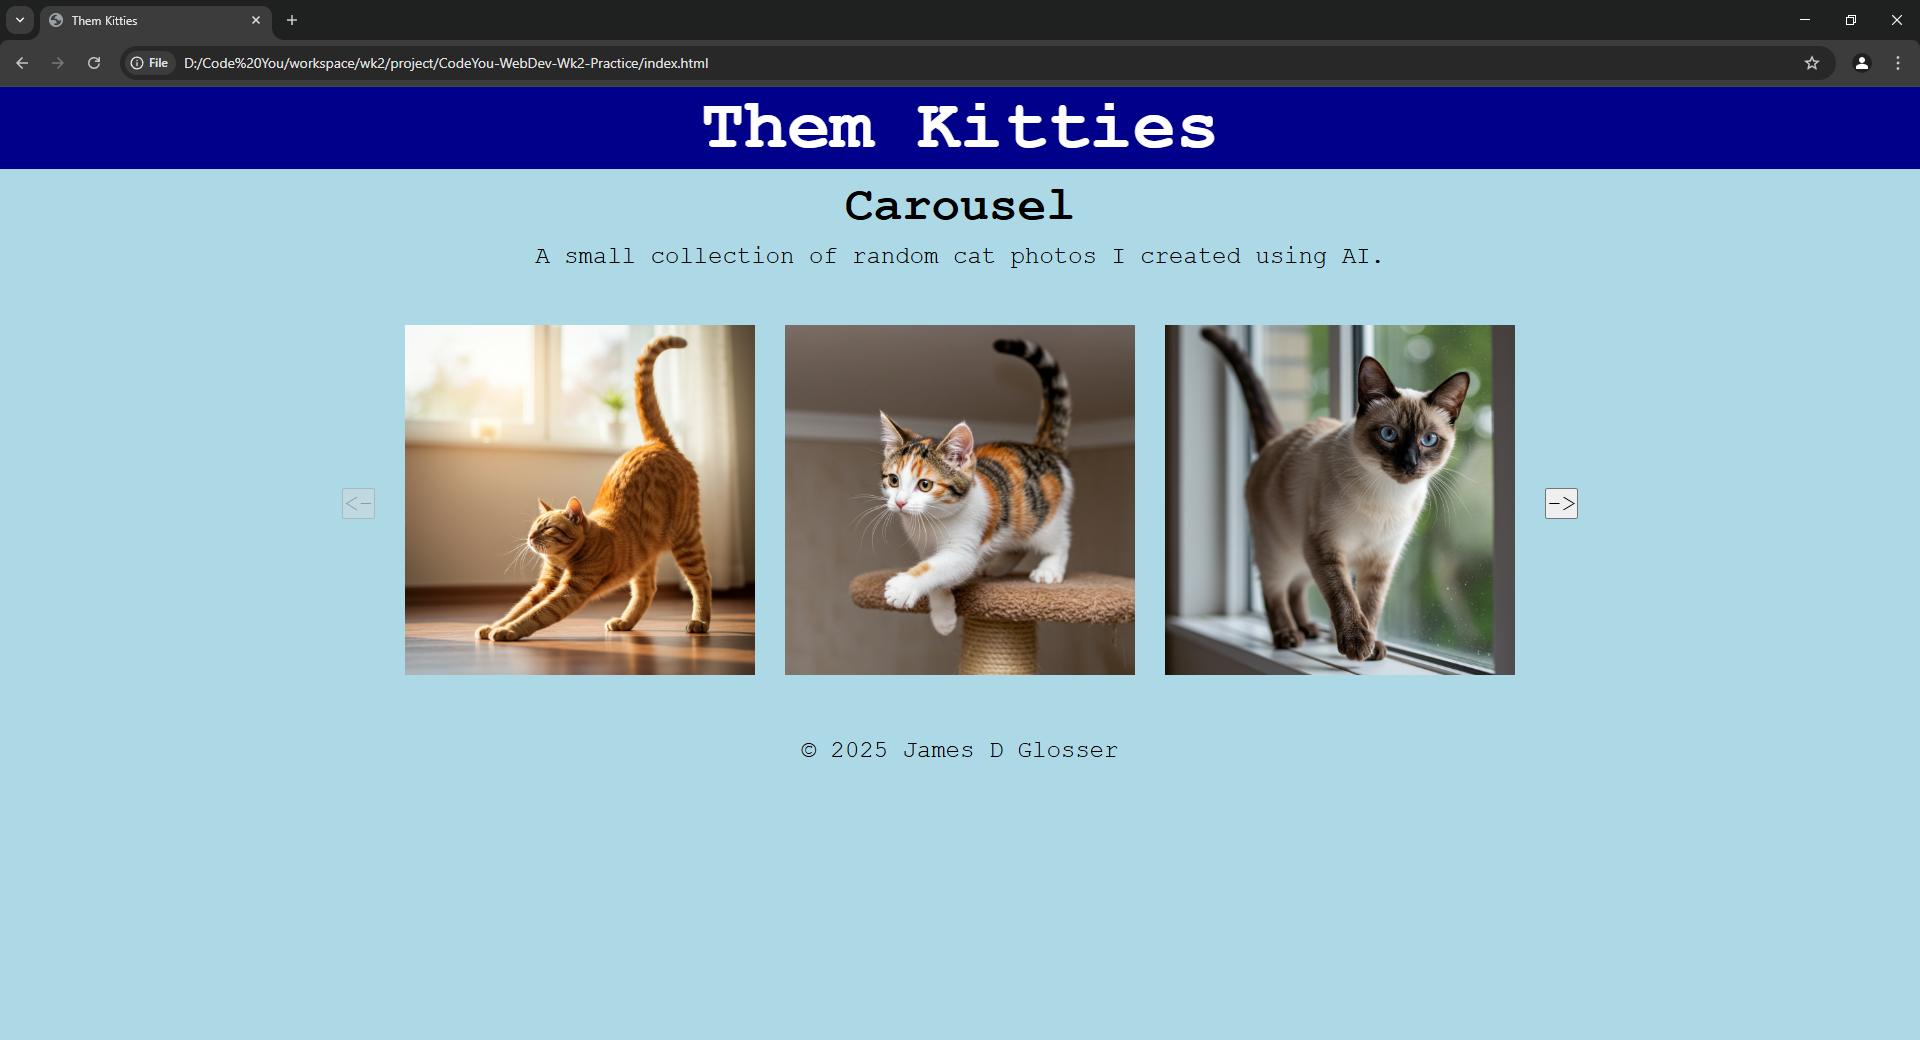
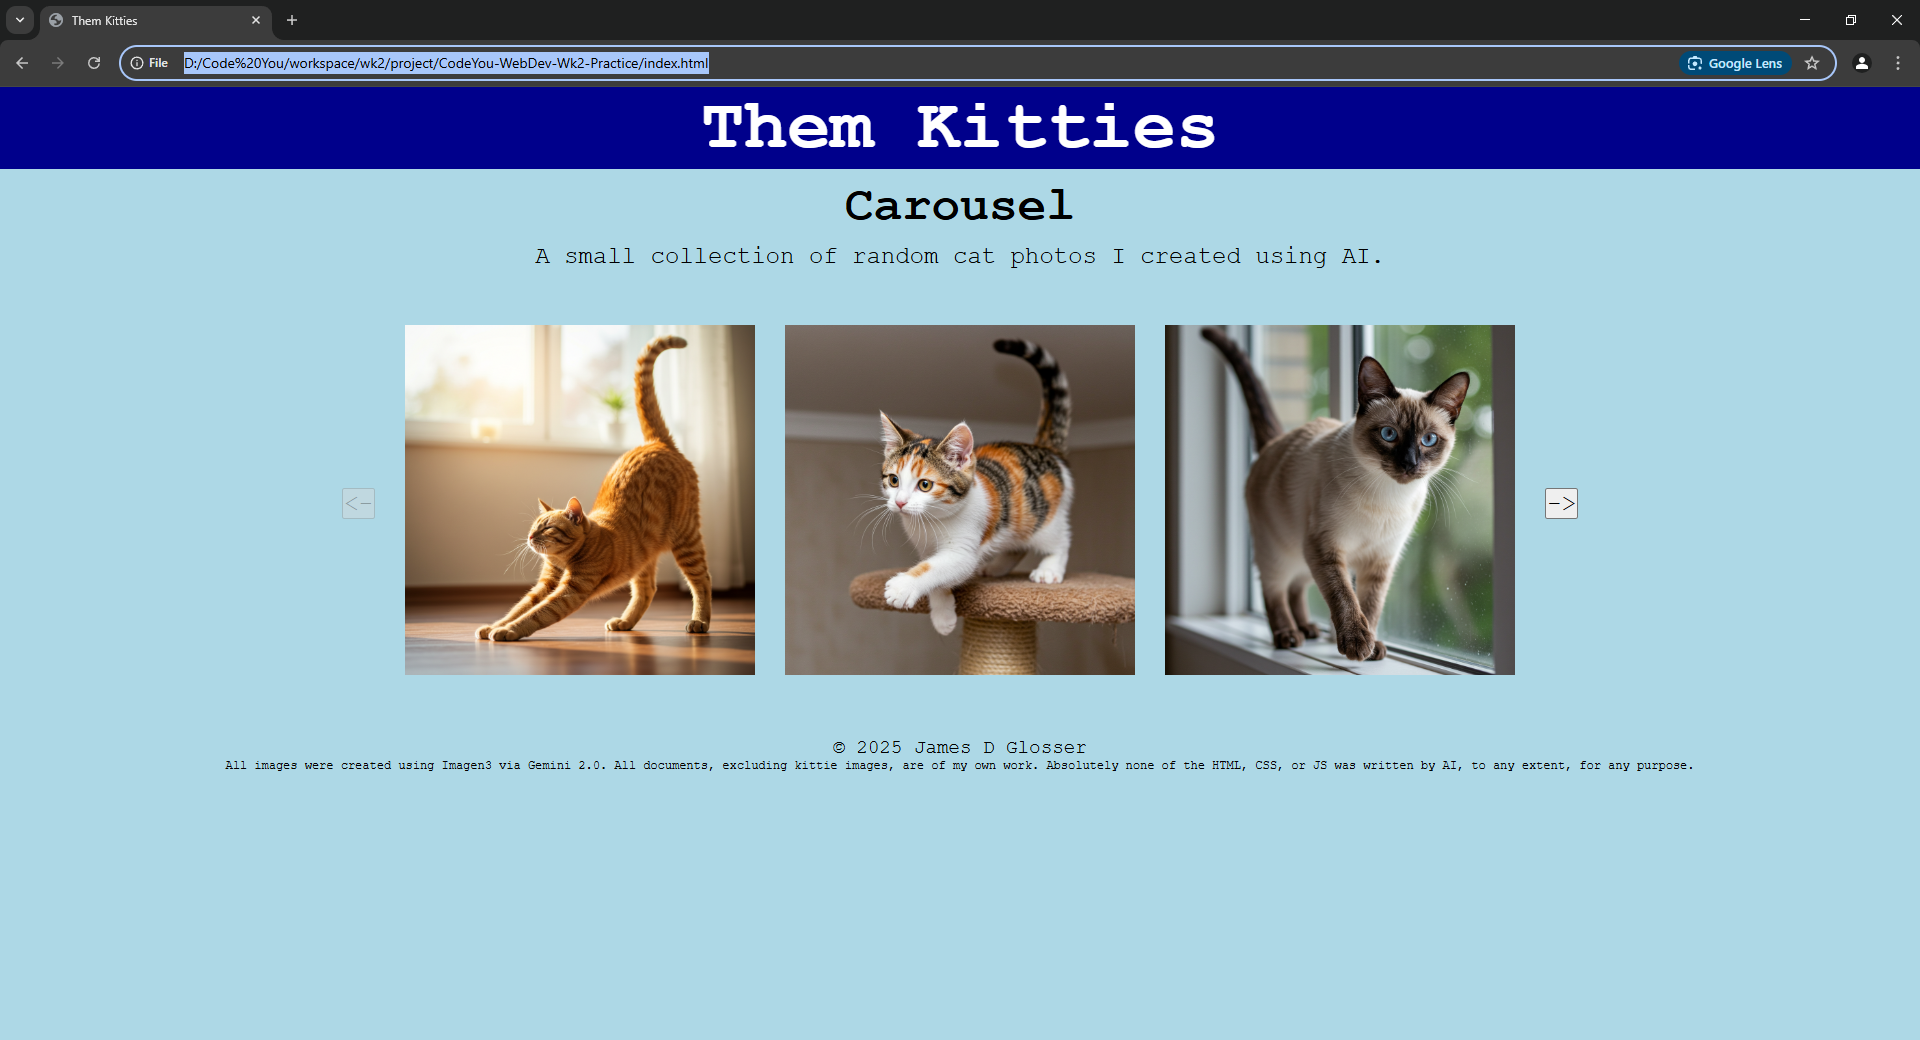
disclaimer

Changed region(s): [[0.0938, 0.0308, 0.375, 0.0923], [0.4062, 0.7077, 0.5938, 0.7385], [0.875, 0.0308, 0.9375, 0.0923]]

diff --git a/index.html b/index.html
@@ -29,6 +29,7 @@
     </main>
     <footer>
       &copy; 2025 James D Glosser
+      <p id="disclaimer">All images were created using Imagen3 via Gemini 2.0. All documents, excluding kittie images, are of my own work. Absolutely none of the HTML, CSS, or JS was written by AI, to any extent, for any purpose.</p>
     </footer>
     <script src="./app.js"></script>
   </body>

diff --git a/styles.css b/styles.css
@@ -63,4 +63,9 @@ header {
 
 footer {
   text-align: center;
+  font-size: .8rem;
+}
+
+#disclaimer {
+  font-size: .5rem;
 }
